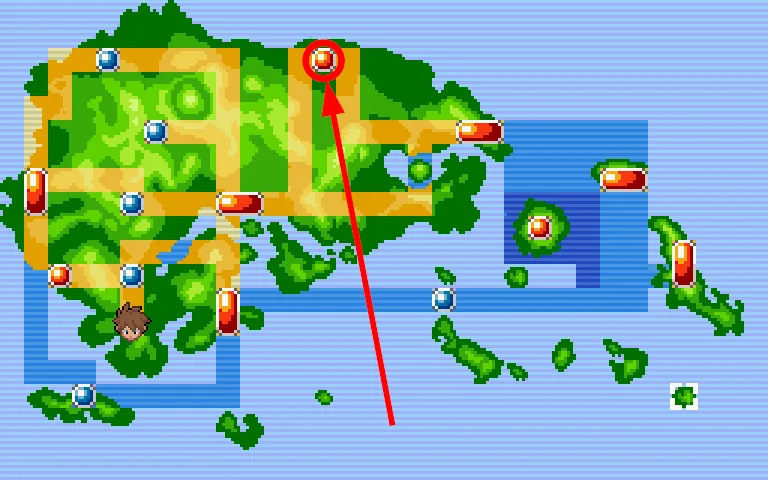
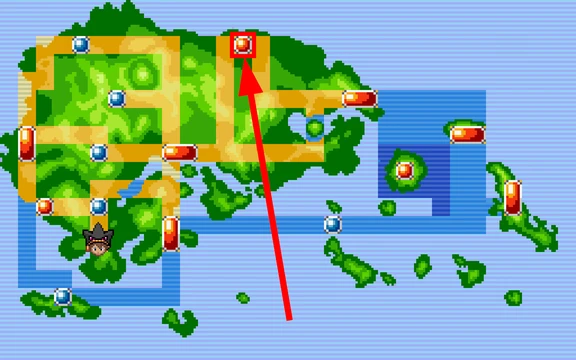
feat: nouvelles cartes des arenes (flèches refaites)

diff --git a/public/js/money.js b/public/js/money.js
@@ -106,7 +106,7 @@ const Money = (() => {
     const cards = r.gyms.map((g, i) => {
       const tip = g.tip ? `<p class="gym-tip">${icon('info')}<span>${esc(t('gr_' + g.tip))}</span></p>` : '';
       return `<article class="gym">` +
-        `<img class="gym-map" src="/gym-rerun/maps/${r.id}-${g.id}.webp" alt="${esc(t('gr_map_of'))} ${esc(g.name)}" width="768" height="480" loading="lazy">` +
+        `<img class="gym-map" src="/gym-rerun/maps/${r.id}-${g.id}.webp" alt="${esc(t('gr_map_of'))} ${esc(g.name)}" width="${r.mapSize[0]}" height="${r.mapSize[1]}" loading="lazy">` +
         `<div class="gym-body"><h3 class="gym-title"><span class="gym-num">${i + 1}.</span>${esc(g.name)}</h3>${tip}` +
         `${g.lines.map(line).join('')}</div></article>`;
     }).join('');

diff --git a/public/css/money.css b/public/css/money.css
@@ -82,7 +82,7 @@
   display: flex; gap: 0.75em; padding: 0.5em; align-items: flex-start;
   background: var(--card); border: 1px solid var(--card-border); border-radius: var(--radius);
 }
-.gym-map { flex: none; width: 27%; height: auto; aspect-ratio: 768 / 480; border-radius: 4px; background: var(--bg3); }
+.gym-map { flex: none; width: 27%; height: auto; border-radius: 4px; background: var(--bg3); }
 .gym-body { display: flex; flex-direction: column; gap: 0.25em; min-width: 0; flex: 1; }
 .gym-title { font: 700 1.25em var(--font-head); color: var(--text); }
 .gym-num { color: var(--accent); margin-right: 0.25em; }
